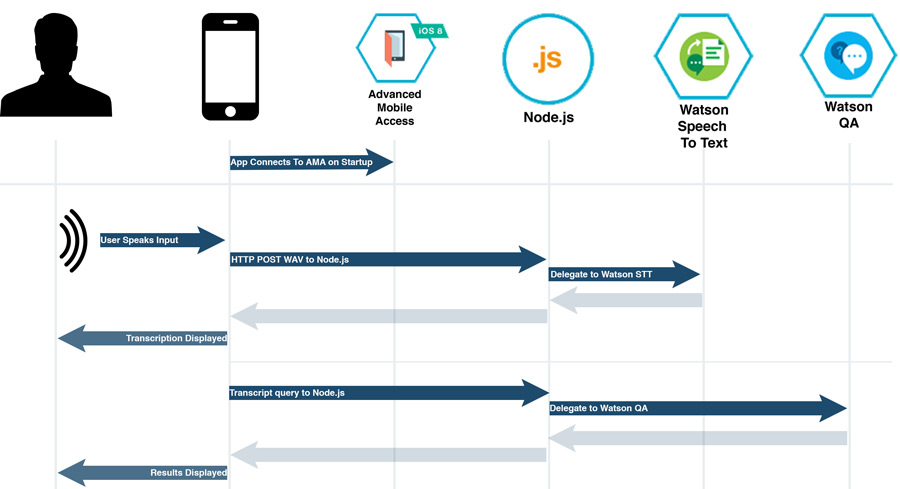
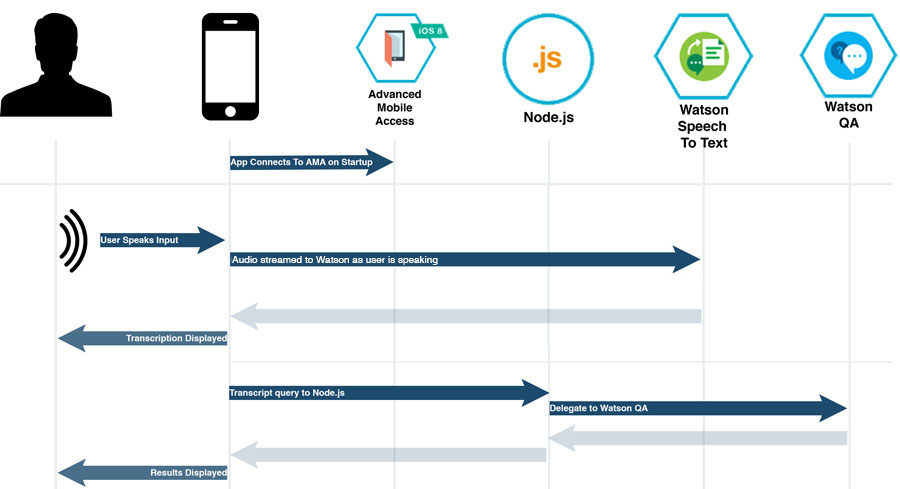
updated read content

Changed region(s): [[0.56, 0.4908, 0.7778, 0.6748], [0.2489, 0.5215, 0.4978, 0.5521]]

diff --git a/README.md b/README.md
@@ -35,7 +35,7 @@ The mobile application connects to the [Mobile Client Access][ama_url] service t
 
 The app communicates to the [Speech to Text][watson_stt_url] and [Question &amp; Answer][watson_qa_url] servies through the Node.js middelware tier.  
 
-For the Speech To Text service, the app records audio from the local device, and sends a WAV file to the Node.js in a HTTP post request.  The Node.js tier then delegates to the Speech To Text service to provide transcription capabilities.  The Node.js tier then formats the respons JSON object and returns the query to the mobile app.  
+For the Speech To Text interaction, the app streams audio from the local device to the Watson Speech To Text Service using the [Watson Speech iOS SDK][watson_ios_sdk].  
 
 For the QA service, the app makes an HTTP GET request (containing the query string) to the Node.js server, which delegates to the Watson QA natural language processing service to return search results. The Node.js tier then formats the respons JSON object and returns the query to the mobile app. 
 
